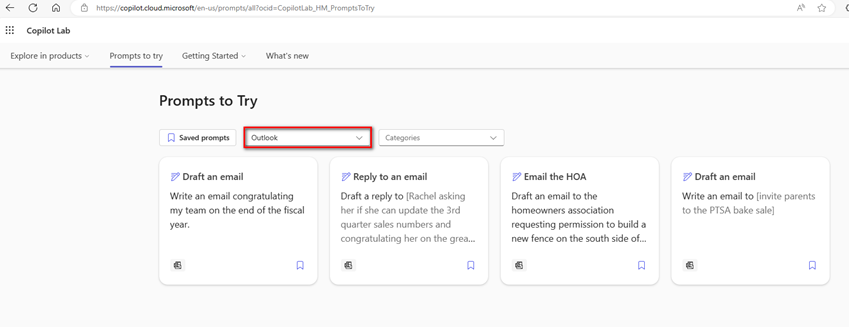
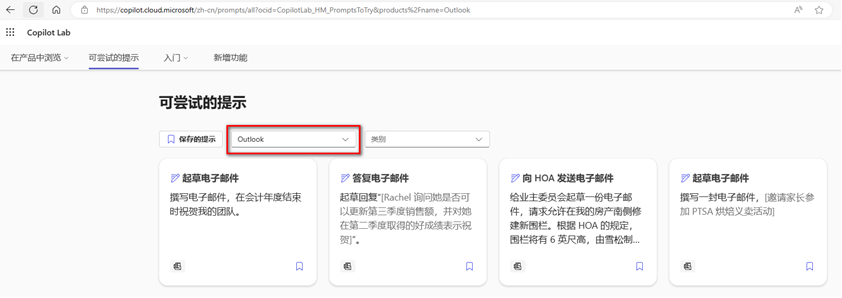
change to Chinese version

diff --git a/draft/M365 Copilot.md b/draft/M365 Copilot.md
@@ -13,14 +13,14 @@ date: 2024-05-01
  
 你是否经常会收到某些朋友的 “在吗”，Copilot也一样。作为一个能够显著提升生产力的工具，Copilot在面对这种无效对话的Prompts（提示词）的时候，也是空有一身本领施展不出。
  
-当你想要利用Copilot做些什么，但却不知道该问它什么？或者压根不知道它能做到什么？如果你有这三个为什么，那你一定要了解一下这个网站：
+当你想要利用Copilot做些什么，但却不知道该问它什么？或者压根不知道它能做到什么？如果你有这几个为什么，那你一定要了解一下这个网站：
 https://copilot.cloud.microsoft/en-US/prompts/all?ocid=CopilotLab_HM_PromptsToTry
 
 ## Prompts to Try
 
 ![](../images/1.png)
 
-这是一个专门为M365用户提供Copilot提示词的网站，它可以帮助你发现和使用各种应用中的copilot功能。你可以根据应用和类别筛选你感兴趣的Prompts，比如说你可以找到Outlook中的邮件写作提示，Teams中的会议记录提示，Excel中的数据分析提示等等。这些提示都是由copilot的专家团队精心设计和测试的，可以帮助提高你的Copilot使用效率和质量。
+这是一个专门为M365用户提供Copilot提示词的网站，它可以帮助你发现和使用各种应用中的Copilot功能。你可以根据应用和类别筛选你感兴趣的Prompts，比如说你可以找到Outlook中的邮件写作提示，Teams中的会议记录提示，Excel中的数据分析提示等等。这些提示都是由Copilot的专家团队精心设计和测试的，可以帮助提高你的Copilot使用效率和质量。
  
 下面，我将以Outlook, Teams和Excel三个应用为例，和大家一起看看如何使用对应的Prompts。
 
@@ -28,23 +28,25 @@ https://copilot.cloud.microsoft/en-US/prompts/all?ocid=CopilotLab_HM_PromptsToTr
  
 ### Outlook:如何写出优雅而专业的邮件？
  
-Outlook是我们日常工作中最常用的沟通工具之一，Copilot在Outlook中主要可以Summarize邮件和写邮件, 网站中有如下Prompts供我们参考使用：
+Outlook是我们日常工作中最常用的沟通工具之一，Copilot在Outlook中主要可以总结邮件和起草邮件, 网站中有如下Prompts供我们参考使用：
 
 ![](../images/2.png)
 
-想象一个场景：你组织了一场关于Prompts to Try的分享会，会后需要发送邮件给与会者表示感谢。此时，我们可以借助写邮件功能: Draft an Email，来帮助我们用恰当的语言表达我们的意思。
+想象一个场景：你组织了一场关于Prompts to Try的分享会，会后需要发送邮件给与会者表示感谢。此时，我们可以借助“起草电子邮件“功能，来帮助我们用恰当的语言表达我们的意思。
  
-在Outlook中，新建一封邮件并选择Draft with Copilot：
+在Outlook中，新建一封邮件并选择使用Copilot撰写草稿：
 
 ![](../images/3.png)
 
-你只需要在输入框中输入大概的需求，点击generate即可帮你生成一封相对完整的邮件：
+你只需要在输入框中输入大概的需求，点击生成即可帮你生成一封相对完整的邮件：
 
 ![](../images/4.png)
 
-运行完一个prompt之后，查看红色框中的结果，你还可以继续在黄色框中输入补充的Prompt，点击Regenerate继续完善你的结果直到满意为止，之后点击Keep it生成草稿邮件。
+运行完一个Prompt之后，查看红色框中的结果，你还可以继续在黄色框中输入补充的Prompt，点击右侧的箭头继续完善你的结果直到满意为止：
 
 ![](../images/5.png)
+
+之后点击保留生成草稿邮件。
 
 ![](../images/6.png)
 
@@ -56,38 +58,42 @@ Teams是我们日常工作中最常用的协作工具之一，Copilot在Teams中
 
 ![](../images/7.png)
 
-考虑这样一个场景：你错过了一场会议，但是你想快速知道该会议的概要。此时，我们可以借助 “Recap the meeting” 提示词，帮我们快速抓住会议主题和重点。需要注意的是， Copilot功能的使用需要会议开启文字或音频记录。
+考虑这样一个场景：你错过了一场会议，但是你想快速知道该会议的概要。此时，我们可以借助 “总结会议” 提示词，帮我们快速抓住会议主题和重点。需要注意的是， Copilot功能的使用需要会议开启文字或音频记录。
 
 ![](../images/8.png)
 
-对于一个已经结束的会议，点击右上角的Copilot，在chat pane中输入“Recap the topic of this meeting”，copilot会帮你小结该会议的主题概要信息。
+对于一个已经结束的会议，点击右上角的Copilot，在对话框中输入“总结讨论的内容”，Copilot会帮你小结该会议的概要信息。
  
 ![](../images/9.png)
 
-若想要了解整个会议的概要，输入“Recap the meeting”，则会列出该会议的key points:
+此时，除了了解会议概要之外，我还会担心会议中是否提到了需要我后续跟进的内容，此时我们可以通过“查找操作项”来帮我列出后续需要做的事项。
 
 ![](../images/10.png)
 
-通过上述提示词，即使错过会议也无需担心，Copilot能让你在几分钟内快速清晰地了解会议内容。
+在对话框中输入“是否有任何给我的拟办事项”，即可获取你的待办事项：
 
-### Excel: 如何写出简洁而有说服力的数据分析?
+![](../images/10-1.png)
 
-Excel是我们日常工作中最常用的数据处理工具之一，Copilot在Excel可以帮助我们可以对各种数据进行整理，分析，可视化，报告等操作。有如下的Prompts供我们参考使用：
+通过上述提示词，即使错过会议也无需担心，Copilot能让你在几分钟内快速清晰地了解会议内容，并知悉自己的会议任务。
+
+### Excel: 如何通过自然语言完成简洁而有说服力的数据分析?
+
+Excel是我们日常工作中最常用的数据处理工具之一，Copilot在Excel中可以帮助我们在不用了解那些复杂公式的情况下，以自然语言对各种数据进行整理，分析，可视化，报告等操作。有如下的Prompts供我们参考使用：
  
 ![](../images/11.png)
 
-考虑这样一个场景：你收到一份每天不同客户的订单及交易数据，需要快速对其做分析处理。此时我们可以借助“Show data insights”来让Copilot帮助我们去做数据分析：
+考虑这样一个场景：你收到一份来自不同客户的订单及交易数据，需要快速对其做分析处理。此时我们可以借助“查找见解”来让Copilot帮助我们去做数据分析：
  
 ![](../images/12.png)
 
-想要看到订单成交量Total (USD) 的分析，我们可以直接输入“insights for Total (USD)”。Copilot会自动分析这列信息和表内其他数据相互关联的内容。在我们的示例中，Copilot自动将总订单成交量Total (USD) 随订单日期的变化以图标的方式直观展示出来。同个Order Date的不同客户的订单也是按我们实际目的去合并计数。
+想要看到订单成交量Total (USD) 的分析，我们可以直接输入“显示Total (USD)列的数据见解”。Copilot会自动分析这列信息和表内其他数据相互关联的内容。在我们的示例中，Copilot自动将总订单成交量Total (USD) 随订单日期的变化以图标的方式直观展示出来。同个Order Date的不同客户的订单也是按我们实际目的去合并计数。
 
 ![](../images/13.png)
 
-从响应结果中也可以看到“Add to a new Sheet”按钮，点击之后，对应的分析数据会以更加详细的内容展示到单独的表格中：
+从响应结果中也可以看到“添加到新工作表”按钮，点击之后，对应的分析数据会以更加详细的内容展示到单独的表格中
 
 ![](../images/14.png)
 
 我们可以根据具体情况，选择一个或多个提示，或者修改一些细节，更加简单高效地来完成我们的数据分析内容。
-
-以上，就是我今天要和大家分享的Prompts to Try网站中冰山一角的内容，还有很多的Apps和相关prompts使用等待大家亲自去探索，拥有它可以让你更好地利用Copilot来提高自己的生产力，快去试试吧！
+  
+以上，就是我今天要和大家分享的Prompts to Try网站中冰山一角的内容，还有很多的应用和相关prompts使用等待大家亲自去探索，拥有它可以让你更好地利用Copilot来提高自己的生产力，快去试试吧！
